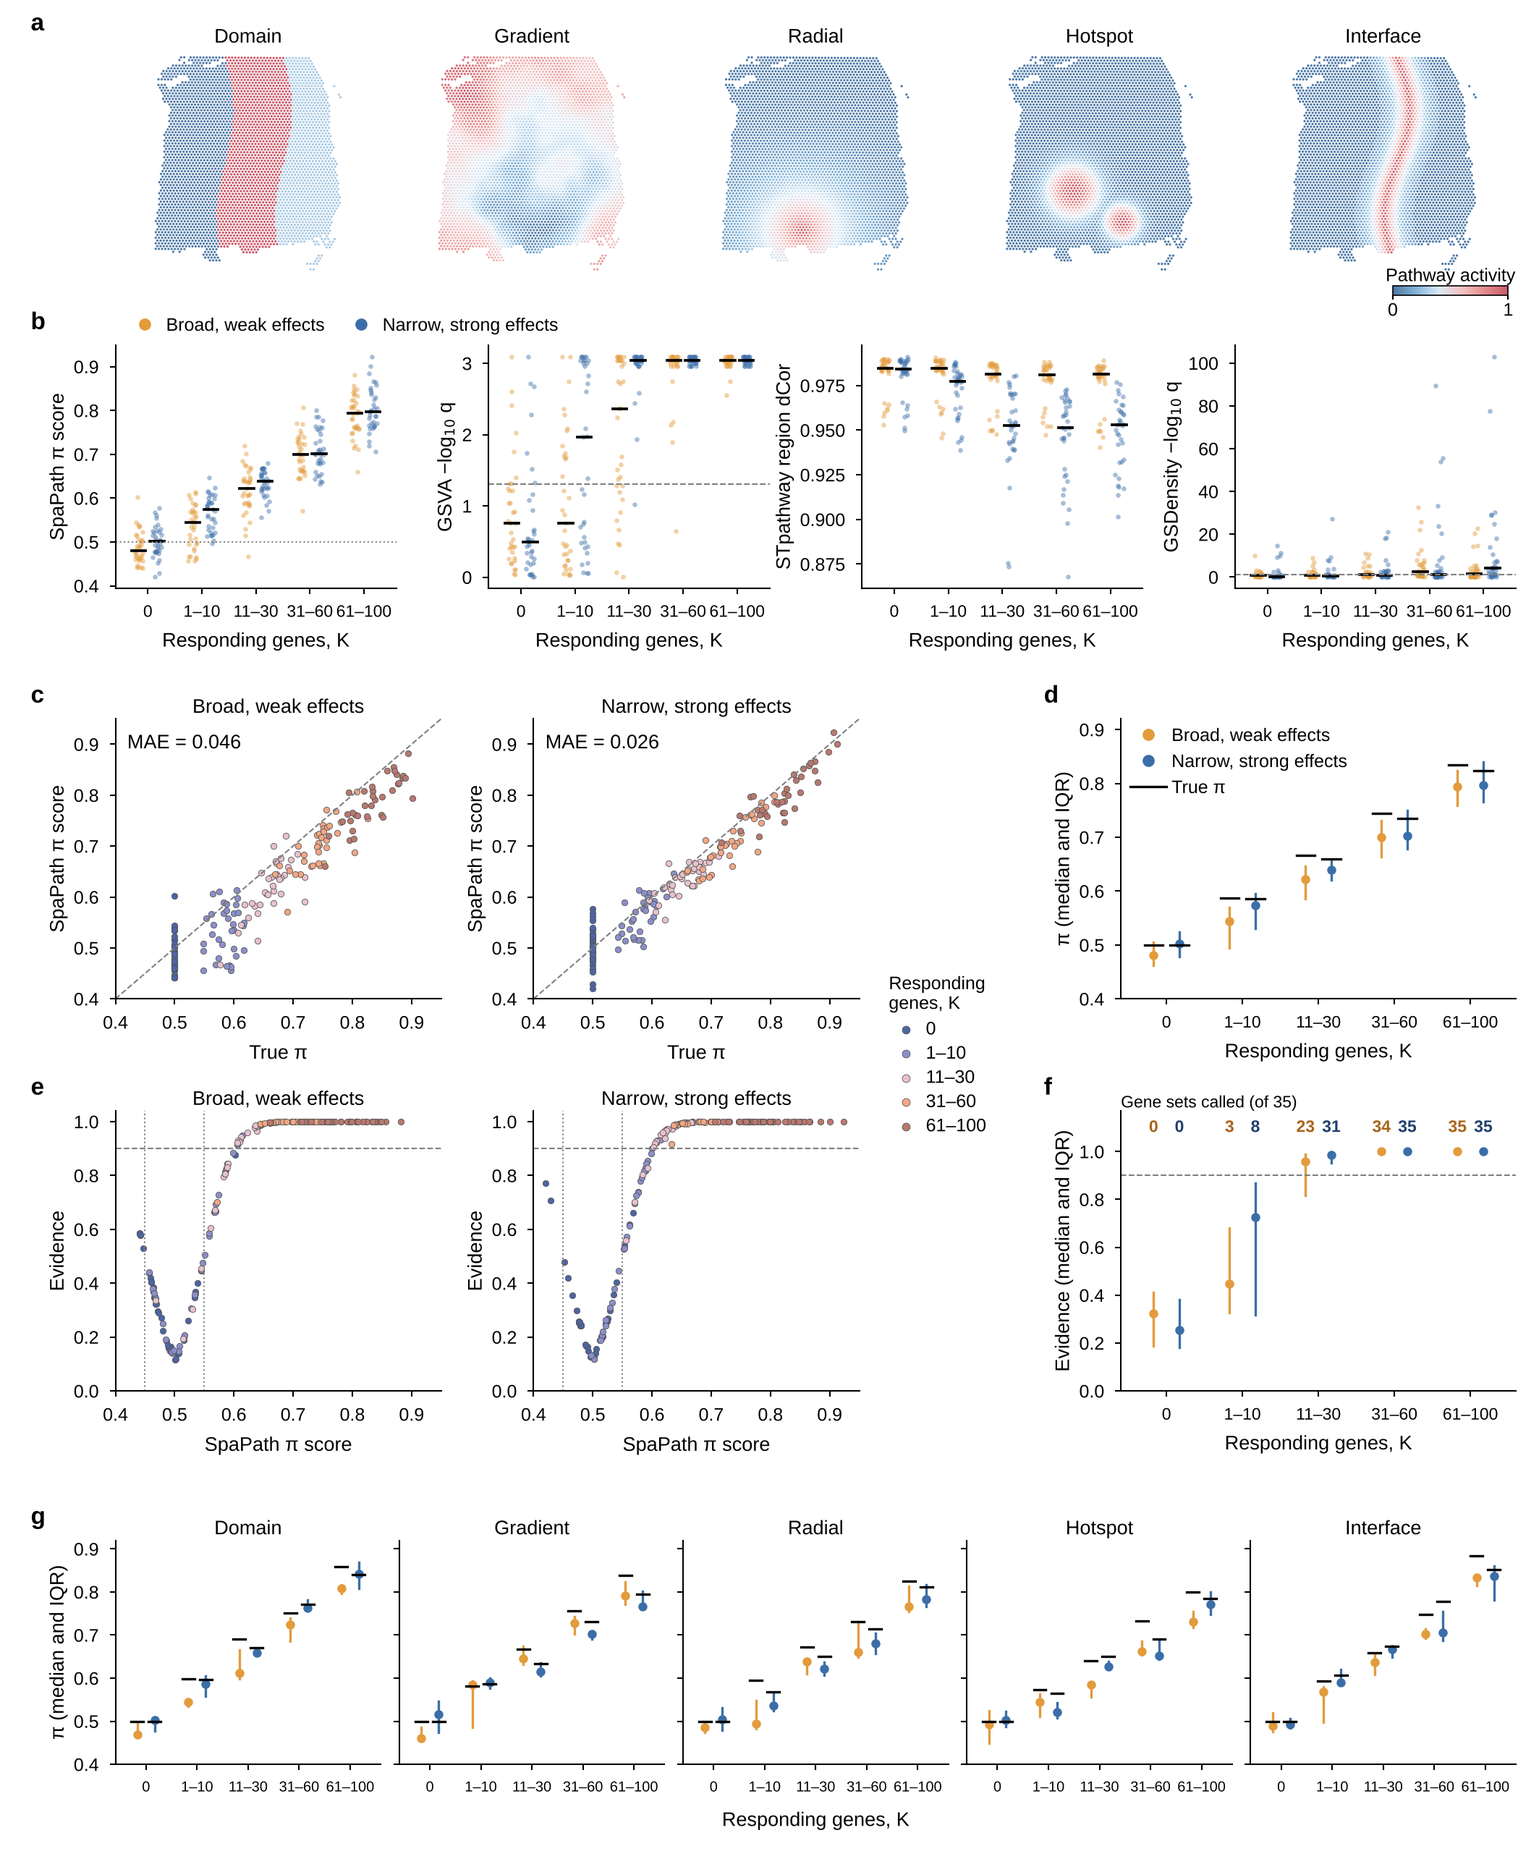
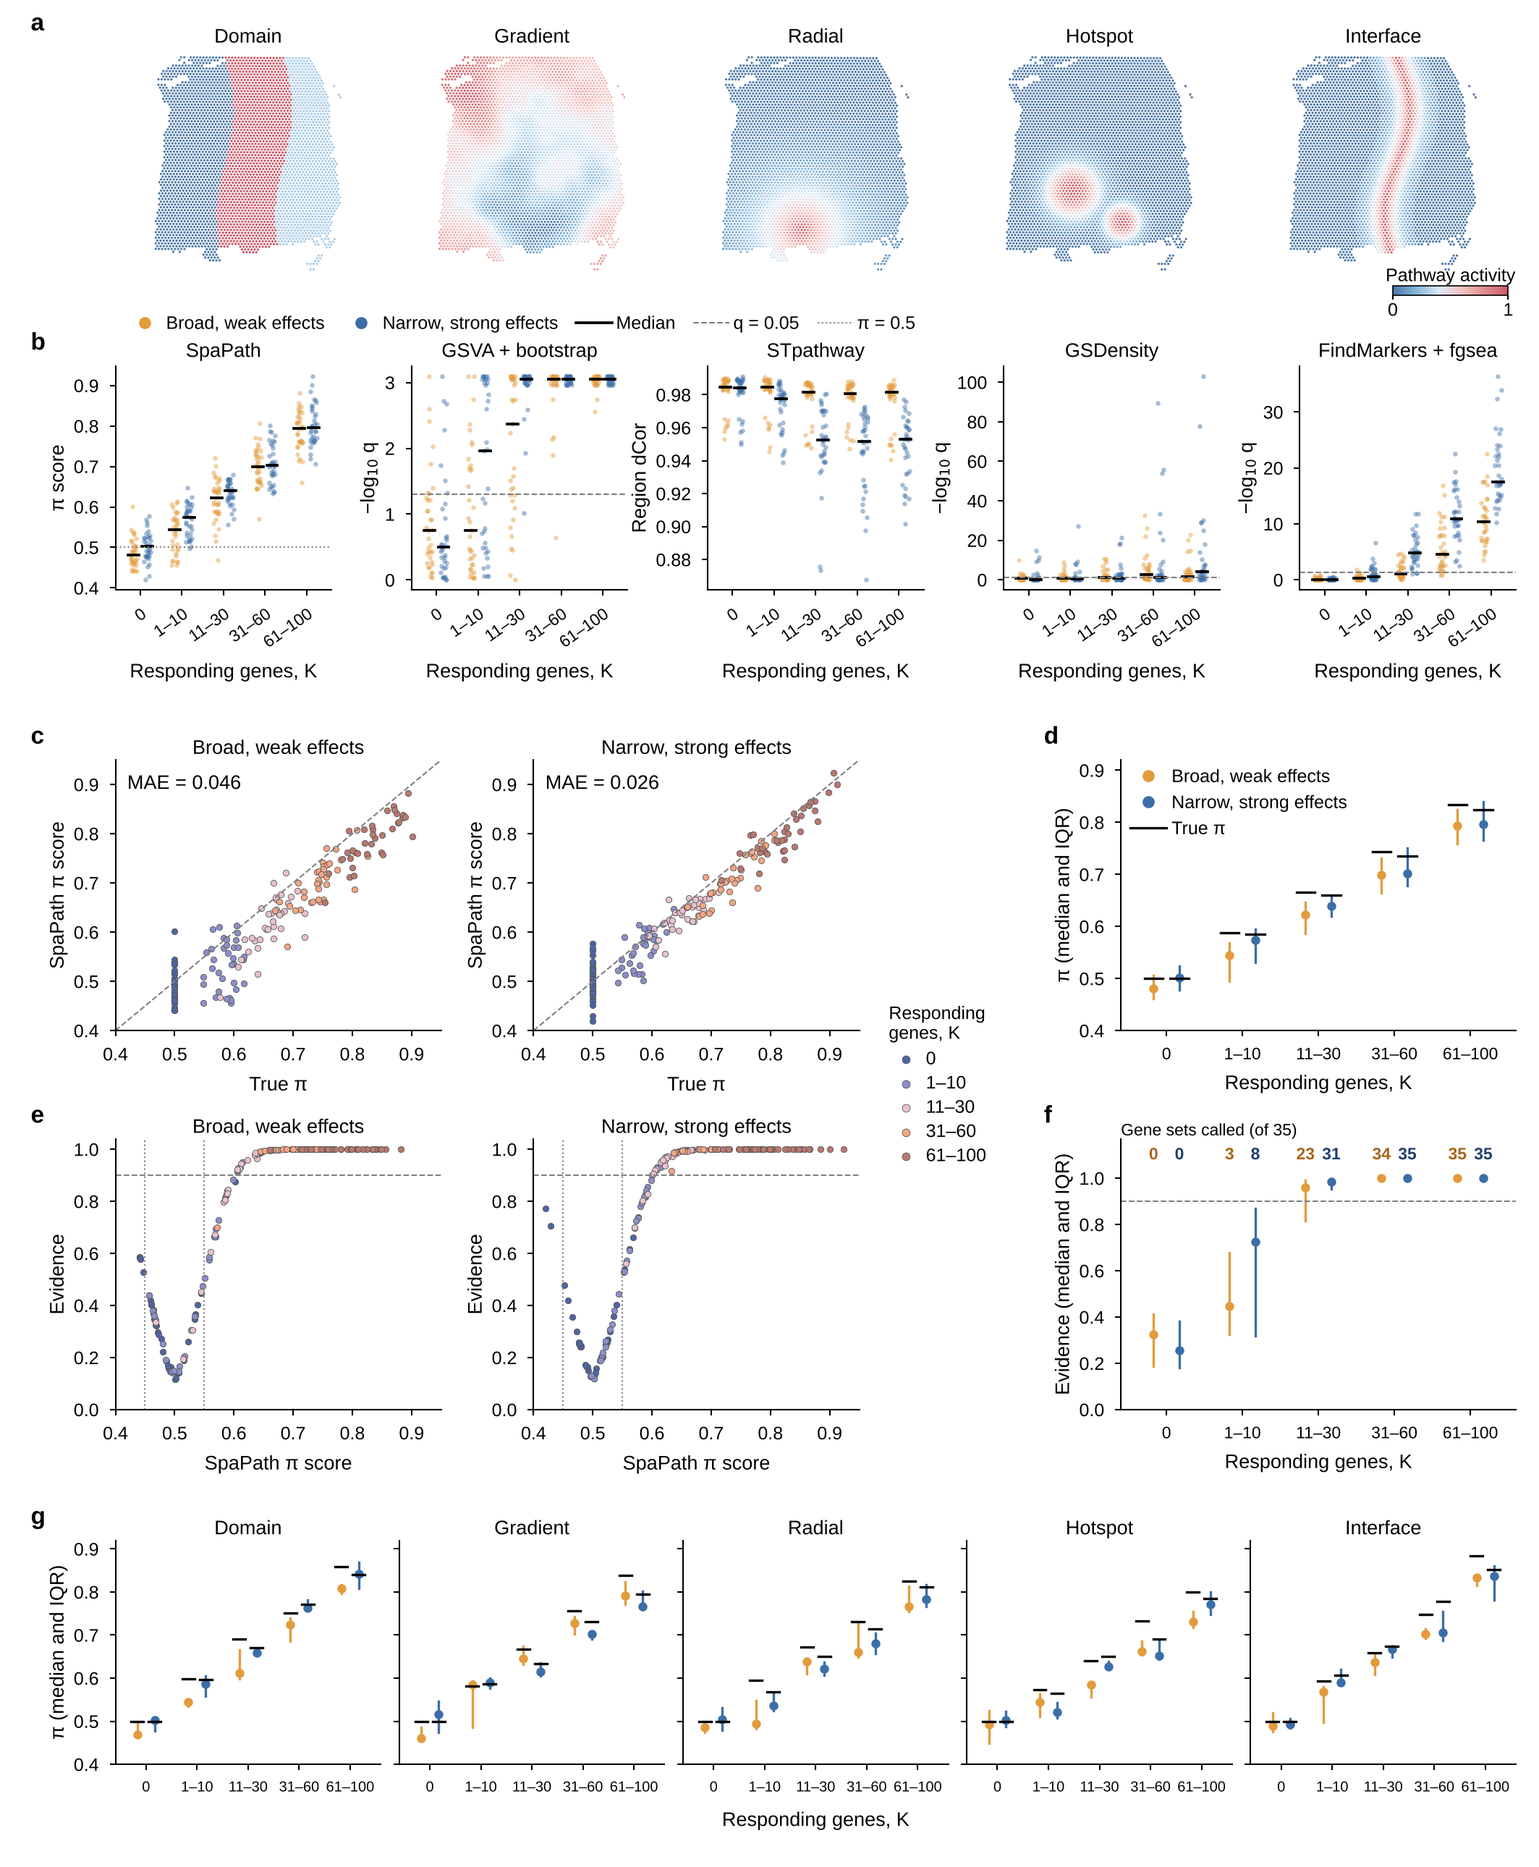
Simulation benchmark: add Seurat FindMarkers + fgsea to Figure 2 and README
Figure 2b gains a FindMarkers + fgsea panel (Wilcoxon AUC ranking, -log10 q),
method names above the panels and a legend for medians, q = 0.05 and pi = 0.5.
README Results, Figure 2 caption and Methods describe the new comparison.

Claude-Session: https://claude.ai/code/session_01UEnbE5uT9Ln9KqzQXHjJzs

diff --git a/README.md b/README.md
@@ -36,15 +36,15 @@ SpaPath can be run in two modes. The observed mode fits a Gaussian model to norm
 - GSDensity [paper](https://www.nature.com/articles/s41467-023-44206-x)
   > Here, we present GSDensity, a graph-modeling approach that allows users to obtain pathway-centric interpretation and dissection of single-cell and spatial transcriptomics (ST) data without performing clustering. Using pathway gene sets, we show that GSDensity can accurately detect biologically distinct cells and reveal novel cell-pathway associations ignored by existing methods. 
   
-We benchmarked SpaPath on seven simulated datasets built on the spot coordinates of DLPFC section 151673 against three representative pathway-analysis workflows: GSVA, the gene-set scoring approach popularized in single-cell RNA sequencing, tested here with a spatial block bootstrap region test; STpathway, a distance-correlation (dCor) test for region-associated pathways; and GSDensity, a region enrichment test on dichotomized spot activity. Each dataset contained 50 gene sets that differed in the number K of genes responding to a spatial activity map, including null sets with K = 0, and every method compared the target region of each gene set with the rest of the tissue (Methods).
+We benchmarked SpaPath on seven simulated datasets built on the spot coordinates of DLPFC section 151673 against three representative pathway-analysis workflows: GSVA, the gene-set scoring approach popularized in single-cell RNA sequencing, tested here with a spatial block bootstrap region test; STpathway, a distance-correlation (dCor) test for region-associated pathways; and GSDensity, a region enrichment test on dichotomized spot activity. We also included differential expression testing with Seurat FindMarkers followed by gene set enrichment analysis with fgsea, in which each gene was tested between the regions with a Wilcoxon rank-sum test and the gene set was tested on the resulting gene ranking. Each dataset contained 50 gene sets that differed in the number K of genes responding to a spatial activity map, including null sets with K = 0, and every method compared the target region of each gene set with the rest of the tissue (Methods).
 
-The existing methods detected strong pathway differences but could not separate them from weaker ones. GSVA's target-minus-rest score difference increased with K, and its spatial block bootstrap test gave median q-values below 0.05 in all groups with K of 11 or more. Of the 210 gene sets with K of 11 or more, 177 reached the smallest p-value the bootstrap can attain, so gene sets with 11 and with 100 responsive genes could not be ranked against each other. It also gave q < 0.05 for 15 of the 70 null gene sets. STpathway's region dCor decreased with K in the narrow, strong-effect setting, from a median of 0.98 at K = 0 to 0.95 at K of 11 or more, but stayed at 0.98 in all groups of the broad, weak-effect setting. Across all 350 gene sets it spanned only 0.87 to 0.99, offering limited discrimination of pathway activity. GSDensity first applies a deviation test, which keeps a gene set only when the density of its genes in a joint gene–spot embedding departs from that of all genes more than for size-matched random gene sets, and tests region enrichment only for the retained sets. The deviation test retained 279 of the 350 gene sets, including 42 of the 70 null sets, and the region test gave q < 0.05 for 138 of them, 14 of which were null sets. Its significance did not consistently strengthen with K. In the broad, weak-effect setting the median q-value was 0.002 at K = 31 to 60 but 0.02 at K = 61 to 100. The test compares the proportions of spots labelled as highly active, and GSDensity sets this label by assuming that pathway activity has two modes across spots and cutting at the low point between them (Methods). When the activity has a single mode with a long upper tail, the cut falls in the tail and only the spots in the tail are labelled, whatever the regional difference. For example, for a gradient gene set with K = 96 in the narrow, strong-effect setting, the mean GSDensity activity was 2.9 times higher in the target than in the rest, yet the cut lay above the 99.9th percentile of the activity, so only 1 of 728 target spots and none of the 2,911 rest spots were labelled highly active and the test was not significant (q = 0.57). In the narrow, strong-effect setting with K of 31 or more, fewer than 1% of spots were labelled highly active in both the target and the rest for 35 of the 69 retained sets.
+The existing methods detected strong pathway differences but could not separate them from weaker ones. GSVA's target-minus-rest score difference increased with K, and its spatial block bootstrap test gave median q-values below 0.05 in all groups with K of 11 or more. Of the 210 gene sets with K of 11 or more, 177 reached the smallest p-value the bootstrap can attain, so gene sets with 11 and with 100 responsive genes could not be ranked against each other. It also gave q < 0.05 for 15 of the 70 null gene sets. STpathway's region dCor decreased with K in the narrow, strong-effect setting, from a median of 0.98 at K = 0 to 0.95 at K of 11 or more, but stayed at 0.98 in all groups of the broad, weak-effect setting. Across all 350 gene sets it spanned only 0.87 to 0.99, offering limited discrimination of pathway activity. GSDensity first applies a deviation test, which keeps a gene set only when the density of its genes in a joint gene–spot embedding departs from that of all genes more than for size-matched random gene sets, and tests region enrichment only for the retained sets. The deviation test retained 279 of the 350 gene sets, including 42 of the 70 null sets, and the region test gave q < 0.05 for 138 of them, 14 of which were null sets. Its significance did not consistently strengthen with K. In the broad, weak-effect setting the median q-value was 0.002 at K = 31 to 60 but 0.02 at K = 61 to 100. The test compares the proportions of spots labelled as highly active, and GSDensity sets this label by assuming that pathway activity has two modes across spots and cutting at the low point between them (Methods). When the activity has a single mode with a long upper tail, the cut falls in the tail and only the spots in the tail are labelled, whatever the regional difference. For example, for a gradient gene set with K = 96 in the narrow, strong-effect setting, the mean GSDensity activity was 2.9 times higher in the target than in the rest, yet the cut lay above the 99.9th percentile of the activity, so only 1 of 728 target spots and none of the 2,911 rest spots were labelled highly active and the test was not significant (q = 0.57). In the narrow, strong-effect setting with K of 31 or more, fewer than 1% of spots were labelled highly active in both the target and the rest for 35 of the 69 retained sets. FindMarkers followed by fgsea gave q < 0.05 for none of the 70 null gene sets and for 11, 48, 68 and 70 of the 70 gene sets with K = 1 to 10, 11 to 30, 31 to 60 and 61 to 100, all in the correct direction. Its normalized enrichment score did not reflect the size of the difference: at K = 31 to 60 the median was 1.98 in the broad, weak-effect setting and 2.42 in the narrow, strong-effect setting, although the median true π score was 0.74 and 0.73.
 
 In all groups with K of 11 or more the median evidence with δ = 0.05 was at least 0.96, indicating that these differences were identified with high confidence. The median π score increased monotonically with K. Its median was 0.48 and 0.50 in the two K = 0 groups and rose to 0.79 at K = 61 to 100 in the broad, weak-effect setting and to 0.80 in the narrow, strong-effect setting. The estimated π score tracked the true π score, with a mean absolute error of 0.026 in the narrow, strong-effect setting and 0.046 in the broad, weak-effect setting ([Fig. 2c, d](benchmark/analysis/simulation_data/result/simulation_results.png)). Unlike GSVA's q-value, the π score continued to rank pathways that already had strong support. Among the 177 gene sets with K of 11 or more that reached GSVA's smallest p-value, the π score ranged from 0.56 to 0.92 and its group median rose with K, from 0.64 at K = 11 to 30 to 0.71 at K = 31 to 60 and 0.80 at K = 61 to 100. For the 84 gene sets with K of 11 or more that GSDensity retained but did not detect, the median π score was 0.68. The increase of the median π score across the four nonzero K groups held for each of the five spatial activity patterns ([Fig. 2g](benchmark/analysis/simulation_data/result/simulation_results.png)).
 
 With $\delta=0.05$ ([Fig. 2e, f](benchmark/analysis/simulation_data/result/simulation_results.png)), the evidence exceeded 0.9 for all 70 gene sets with K = 61 to 100, 69 of the 70 with K = 31 to 60 and 54 of the 70 with K = 11 to 30, all in the correct direction, and for none of the 70 null gene sets. At K = 1 to 10 the evidence had a median of 0.45 (interquartile range 0.33 to 0.68) in the broad, weak-effect setting and 0.73 (0.32 to 0.87) in the narrow, strong-effect setting, and exceeded 0.9 for 11 of the 70 gene sets. Five of these 11 contained 9 upregulated and 1 downregulated responsive genes. For the 11 gene sets, the mean absolute error of the π score was 0.019. Across the 70 gene sets with K = 1 to 10, the mean absolute error was 0.041 (0.025 in the narrow, strong-effect setting and 0.057 in the broad, weak-effect setting; [Fig. 2c](benchmark/analysis/simulation_data/result/simulation_results.png)), compared with 0.036 over all 350 gene sets.
 
-[Figure 2. SpaPath quantifies the strength of regional pathway differences in simulated data. (a) Activity maps of the five spatial patterns. (b) SpaPath π score, GSVA −log10 q, STpathway region dCor and GSDensity −log10 q by number of responding genes K. (c) SpaPath π score versus true π. (d) Median and interquartile range of the π score and true π in each group. (e) SpaPath π score versus the evidence with δ = 0.05. (f) Median and interquartile range of the evidence, with the number of gene sets whose evidence exceeded 0.9. (g) π score and true π by K for each spatial pattern.](benchmark/analysis/simulation_data/result/simulation_results.png)
+[Figure 2. SpaPath quantifies the strength of regional pathway differences in simulated data. (a) Activity maps of the five spatial patterns. (b) SpaPath π score, GSVA −log10 q, STpathway region dCor, GSDensity −log10 q and FindMarkers + fgsea −log10 q by number of responding genes K. (c) SpaPath π score versus true π. (d) Median and interquartile range of the π score and true π in each group. (e) SpaPath π score versus the evidence with δ = 0.05. (f) Median and interquartile range of the evidence, with the number of gene sets whose evidence exceeded 0.9. (g) π score and true π by K for each spatial pattern.](benchmark/analysis/simulation_data/result/simulation_results.png)
 
 [Table 1. Median region-level statistics of the four methods across the 350 simulated gene sets.](benchmark/analysis/simulation_data/result/simulation_summary.xlsx)
 
@@ -228,13 +228,13 @@ for background genes, where $b_g\ge 0$ was calibrated numerically so that the ta
 
 #### Evaluation on simulated data
 
-Each simulated dataset was analyzed with the four methods as described in Compared methods and benchmarking, with the target region of each pathway defined by its activity map. All methods used random seed 42. Each statistic was summarized by its median over the 35 gene sets of each of the ten groups defined by effect-size distribution and response-size group.
+Each simulated dataset was analyzed with the five methods as described in Compared methods and benchmarking, with the target region of each pathway defined by its activity map. All methods used random seed 42. Each statistic was summarized by its median over the 35 gene sets of each of the ten groups defined by effect-size distribution and response-size group.
 
 ### Compared methods and benchmarking
 
 #### Benchmarking design
 
-We benchmarked SpaPath against three representative pathway-analysis methods, GSVA (REF), STpathway (REF) and GSDensity (REF). [TODO: software versions and code sources.] Because the methods return statistics that are not directly comparable, each method's output was mapped onto a common question, whether a pathway differs between a target region and the remaining tissue.
+We benchmarked SpaPath against three representative pathway-analysis methods, GSVA (REF), STpathway (REF) and GSDensity (REF), and, on the simulated data, against Seurat FindMarkers followed by fgsea (Korotkevich et al., 2021). [TODO: software versions and code sources.] Because the methods return statistics that are not directly comparable, each method's output was mapped onto a common question, whether a pathway differs between a target region and the remaining tissue.
 
 The benchmarking protocol was identical for simulated and real data, and only the dataset and the definition of the target region differed. On simulated data, the target region of each pathway was the one defined by its activity map, and each method's region-level statistic was compared with the prespecified pathway activity across the eight strata defined by response size and effect-size distribution, and separately across the five spatial-pattern classes.
 
@@ -244,7 +244,7 @@ On the DLPFC data, all methods were applied to each of the 12 sections of Maynar
 
 #### Normalization
 
-All methods started from the same SCTransform fit of the raw counts (REF). GSDensity received the SCTransform-corrected counts, which its functions log-normalize before the embedding. GSVA, STpathway and SpaPath, run in the observed mode, received the Pearson residuals.
+All methods started from the same SCTransform fit of the raw counts (REF). GSDensity received the SCTransform-corrected counts, which its functions log-normalize before the embedding. GSVA, STpathway and SpaPath, run in the observed mode, received the Pearson residuals. FindMarkers received the log-transformed SCTransform-corrected counts.
 
 #### GSVA
 
@@ -257,6 +257,10 @@ STpathway adapts the Brownian distance covariance test (Székely and Rizzo, 2009
 #### GSDensity
 
 The GSDensity pathway activity of each spot was computed by random walk with restart on a 300-nearest-neighbour graph, the deviation of each set was tested by comparing the density of its genes in the joint gene–spot embedding with those of 100 size-matched random gene sets through the Kullback–Leibler divergence, and sets with Benjamini–Hochberg q < 0.05 within each dataset were retained. For these sets, spots were labelled as highly active or not with the GSDensity labelling function, which estimates the density of the pathway activity across spots with a Gaussian kernel at the critical bandwidth that yields two modes and labels spots above the antimode as highly active (locmodes in the multimode R package, REF). The activity of each set was divided by its mean before labelling, which leaves the labels unchanged and avoids numerical tolerance problems at the original scale. The proportions of highly active spots in the target region and the remaining spots were compared by a chi-squared test with continuity correction. P-values were adjusted by the Benjamini–Hochberg procedure across the retained gene sets in each dataset. On the DLPFC sections the joint gene–spot embedding was computed as in the authors' 10x Visium tutorial, by multiple correspondence analysis (10 dimensions) of the SCTransform-corrected counts, and the deviation test used 100 grid points. Because the installed version of its grid partitioning only forms groups of equal size, the 22 to 99 genes detected in the fewest spots that belong to none of the 30 gene sets were left out of the grid in each section, so that the number of genes was a multiple of 100.
+
+#### FindMarkers and fgsea
+
+Every gene was compared between the target region of a gene set and the remaining spots with the two-sided Wilcoxon rank-sum test of the FindMarkers function of Seurat (Hao et al., 2024), computed with presto (Korsunsky et al., 2019). Genes were ranked by the area under the receiver operating characteristic curve (AUC) minus 0.5, where the AUC is the Mann–Whitney U statistic divided by the product of the numbers of spots in the two regions and exceeds 0.5 for genes expressed higher in the target region. The gene set was then tested on this ranking by preranked gene set enrichment analysis with fgsea, which gives a normalized enrichment score (NES) whose sign indicates the direction. P-values were adjusted by the Benjamini–Hochberg procedure across the gene sets of each dataset.
 
 #### SpaPath
 
